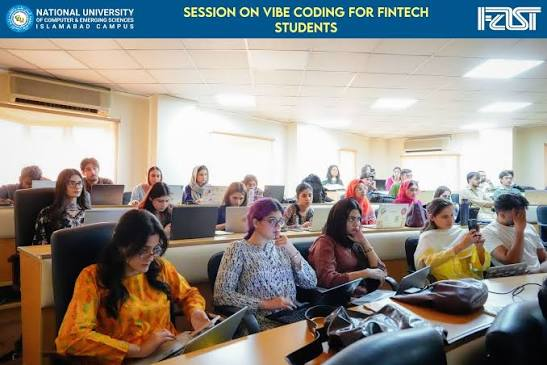
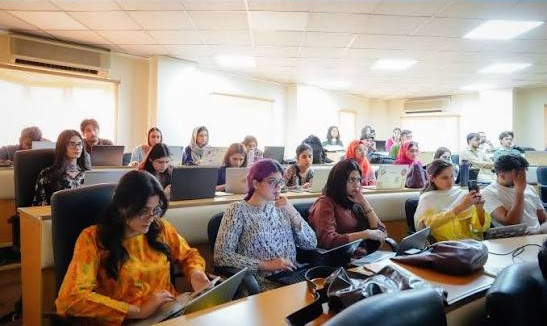
Corrected Minor Inconsistencies

diff --git a/src/pages/upevents.html b/src/pages/upevents.html
@@ -708,11 +708,11 @@
               data-organizer="Fitness Club"
               data-fee="Free"
               data-desc="A 5 km fun run open to students and staff. Finishers get a medal and breakfast."
-              data-img="https://picsum.photos/seed/unifest-ev-sports3/1200/600"
+              data-img="./../images/hackhaton-25.jpg"
             >
               <img
                 class="event__img"
-                src="https://picsum.photos/seed/unifest-ev-sports3/720/480"
+                src="./../images/hackhaton-25.jpg"
                 alt=""
                 loading="lazy"
               />

diff --git a/src/scripts/upevents.js b/src/scripts/upevents.js
@@ -38,9 +38,6 @@ document.addEventListener('click', e => {
   const list = card.closest('.events');
   const d = card.dataset;
 
-  console.log(d);
-  console.log(field);
-
   field('img').src = d.img;
   field('category').textContent = list.dataset.label;
   field('fee').textContent = d.fee;
